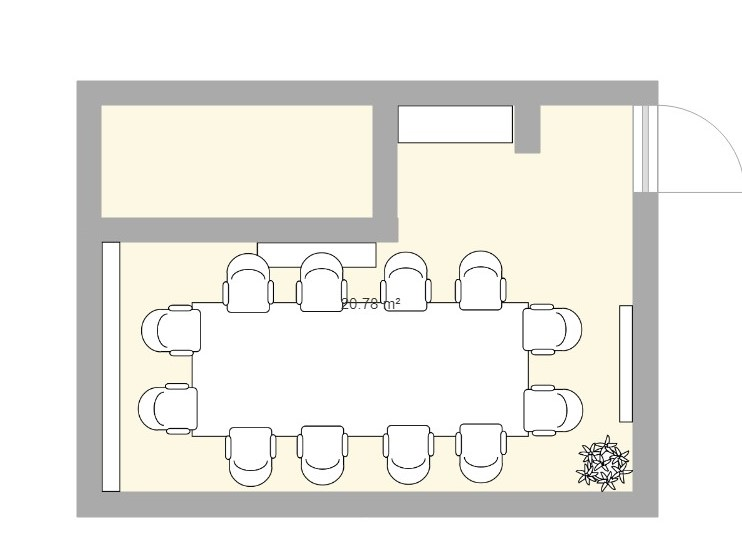
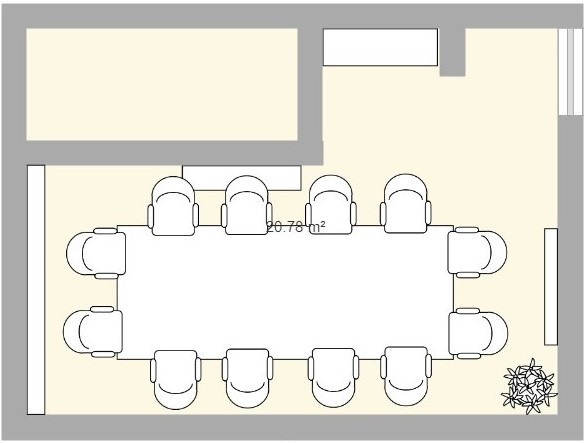
Add image to the view.

diff --git a/backend-service/src/main/java/episen/si/ing1/pds/backend/server/RequestHandler.java b/backend-service/src/main/java/episen/si/ing1/pds/backend/server/RequestHandler.java
@@ -1,0 +1,106 @@
+package episen.si.ing1.pds.backend.server;
+
+import com.fasterxml.jackson.databind.ObjectMapper;
+import episen.si.ing1.pds.backend.server.socket.RequestSocket;
+import org.slf4j.Logger;
+import org.slf4j.LoggerFactory;
+
+import java.io.PrintWriter;
+import java.sql.Connection;
+import java.sql.PreparedStatement;
+import java.sql.ResultSet;
+import java.util.ArrayList;
+import java.util.HashMap;
+import java.util.List;
+import java.util.Map;
+
+public class RequestHandler {
+    private static final Logger logger = LoggerFactory.getLogger(RequestHandler.class.getName());
+
+    public void sendResponse(RequestSocket request, PrintWriter writer, Connection connection) throws Exception {
+        String requestName = request.getRequest();
+
+        if (requestName.equals("building_list")) {
+            ObjectMapper mapper = new ObjectMapper();
+            Map dataLoaded = (Map) request.getData();
+            List<Map> building = new ArrayList<>();
+            String sql = "Select distinct(building_id), building_name  from Building Natural Join Floor_ Natural Join Space Natural Join Rental Natural Join Maintenance_Department_Administrators Where company_id=?";
+            PreparedStatement statement = connection.prepareStatement(sql);
+            // setInt permits to put value in sql variable.
+            statement.setInt(1, (Integer) dataLoaded.get("company_id"));
+            ResultSet rs = statement.executeQuery();
+            while (rs.next()) {
+                Map<String, Object> hm = new HashMap<>();
+                hm.put("building_id", rs.getInt("building_id"));
+                hm.put("building_name", rs.getString("building_name"));
+                building.add(hm);
+            }
+            // response is a map of value that is a list of map
+            Map<String, Object> response = new HashMap<>();
+            response.put("request", requestName);
+            response.put("data", building);
+
+            String responseMsg = mapper.writeValueAsString(response);
+
+            logger.info(responseMsg);
+            writer.println(responseMsg);
+            logger.info("Response Has been sent");
+//            outputStream.write(responseMsg.getBytes(StandardCharsets.UTF_8));
+
+        } else if (requestName.equals("floor_list")) {
+            ObjectMapper mapper = new ObjectMapper();
+            Map dataLoaded = (Map) request.getData();
+            System.out.println("floor" + dataLoaded);
+            List<Map> floor = new ArrayList<>();
+            String sql = "Select Distinct(floor_id), floor_number from Floor_ Natural Join Space Natural Join Rental Natural Join Maintenance_Department_Administrators Where company_id=? and building_id = ?";
+            PreparedStatement statement = connection.prepareStatement(sql);
+
+            statement.setInt(1, (Integer) dataLoaded.get("company_id"));
+            statement.setInt(2, (Integer) dataLoaded.get("building_id"));
+            ResultSet rs = statement.executeQuery();
+            while (rs.next()) {
+                Map<String, Object> hm = new HashMap<>();
+                hm.put("floor_id", rs.getInt("floor_id"));
+                hm.put("floor_number", rs.getInt("floor_number"));
+                floor.add(hm);
+            }
+            // response is a map of value that is a list of map
+            Map<String, Object> response = new HashMap<>();
+            response.put("request", requestName);
+            response.put("data", floor);
+
+            String responseMsg = mapper.writeValueAsString(response);
+            writer.println(responseMsg);
+
+
+        } else if (requestName.equals("space_list")) {
+            ObjectMapper mapper = new ObjectMapper();
+            Map dataLoaded = (Map) request.getData();
+            System.out.println("space " + dataLoaded);
+            List<Map> spaces = new ArrayList<>();
+            String sql = "Select Distinct(space_id), space_name, space_type from Space Natural Join Rental Natural Join Maintenance_Department_Administrators Where company_id= ? and floor_id = ?";
+            PreparedStatement statement = connection.prepareStatement(sql);
+
+            statement.setInt(1, (Integer) dataLoaded.get("company_id"));
+            statement.setInt(2, (Integer) dataLoaded.get("floor_id"));
+            ResultSet rs = statement.executeQuery();
+            while (rs.next()) {
+                Map<String, Object> hm = new HashMap<>();
+                hm.put("space_id", rs.getInt("space_id"));
+                hm.put("space_name", rs.getString("space_name"));
+                hm.put("space_type", rs.getString("space_type"));
+                spaces.add(hm);
+            }
+            // response is a map of value that is a list of map
+            Map<String, Object> response = new HashMap<>();
+            response.put("request", requestName);
+            response.put("data", spaces);
+
+            String responseMsg = mapper.writeValueAsString(response);
+            writer.println(responseMsg);
+
+        }
+
+
+    }
+}

diff --git a/client/src/main/java/episen/si/ing1/pds/client/view/Mapping/OpenSpaceView.java b/client/src/main/java/episen/si/ing1/pds/client/view/Mapping/OpenSpaceView.java
@@ -24,7 +24,7 @@ public class OpenSpaceView extends CommonFrame {
             Image img;
             {
                 try {
-                    img = ImageIO.read(new File("client/src/main/resources/open_space.jpg"));
+                    img = ImageIO.read(new File("client/src/main/resources/meeting_room.jpg"));
                 } catch (IOException e) {
                     e.printStackTrace();
                 }
@@ -41,20 +41,18 @@ public class OpenSpaceView extends CommonFrame {
         jb1 = new JButton("Retour");
         jl1 = new JLabel("Votre espace : Salle de réunion 1 situé dans l'étage 1 du batiment Copernic");
 
-        jp1.setLayout(new FlowLayout());
+        jp1.setLayout(new BorderLayout());
         jp2.setPreferredSize(new Dimension(950,50));
-
         box1.setPreferredSize(new Dimension(950,50));
         box1.add(jb1);
         box1.add(Box.createHorizontalStrut(200));
         box1.add(jl1);
 
         jp2.add(box1);
-        jp1.setBackground(Color.RED);
+        jp3.setBackground(Color.RED);
         this.add(jp1);
-        jp1.add(jp2);
+        jp1.add(jp2, BorderLayout.NORTH);
         jp1.add(jp3);
-        jp1.revalidate();
 
     }
 

diff --git a/client/src/main/java/episen/si/ing1/pds/client/socket/ResponseSocket.java b/client/src/main/java/episen/si/ing1/pds/client/socket/ResponseSocket.java
@@ -1,8 +1,9 @@
 package episen.si.ing1.pds.client.socket;
 
 public class ResponseSocket {
-    private String request;
-    private Object data;
+    private String request ;
+    private Object data ;
+
 
     public String getRequest() {
         return request;

diff --git a/client/src/main/java/episen/si/ing1/pds/client/socket/RequestSocket.java b/client/src/main/java/episen/si/ing1/pds/client/socket/RequestSocket.java
@@ -2,7 +2,8 @@ package episen.si.ing1.pds.client.socket;
 
 public class RequestSocket {
     private String request;
-    private Object data;
+    private Object data ;
+
 
     public void setRequest(String request) {
         this.request = request;

diff --git a/client/src/main/java/episen/si/ing1/pds/client/view/CommonFrame.java b/client/src/main/java/episen/si/ing1/pds/client/view/CommonFrame.java
@@ -30,7 +30,7 @@ public class CommonFrame extends JFrame {
         this.add(pan2, BorderLayout.PAGE_END);
 
         pan3 = new JPanel();
-        this.add(pan3);
+        this.add(pan3, BorderLayout.CENTER);
         this.setSize(1000,700);
 
     }

diff --git a/client/src/main/java/episen/si/ing1/pds/client/model/Company.java b/client/src/main/java/episen/si/ing1/pds/client/model/Company.java
@@ -10,4 +10,5 @@ public class Company {
     public static void setCompany_id(int building_id){
         Company.company_id = company_id;
     }
+
 }
